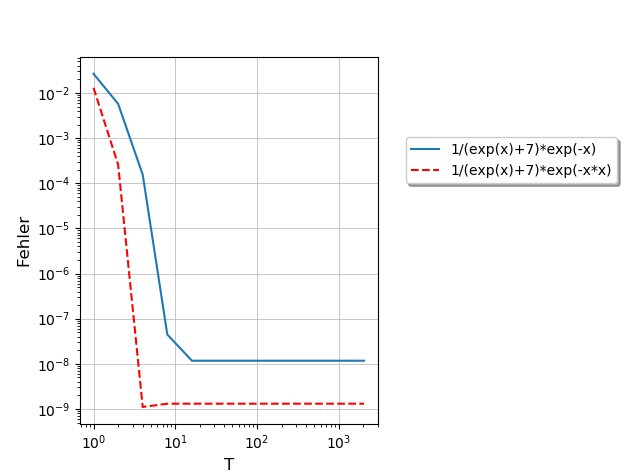
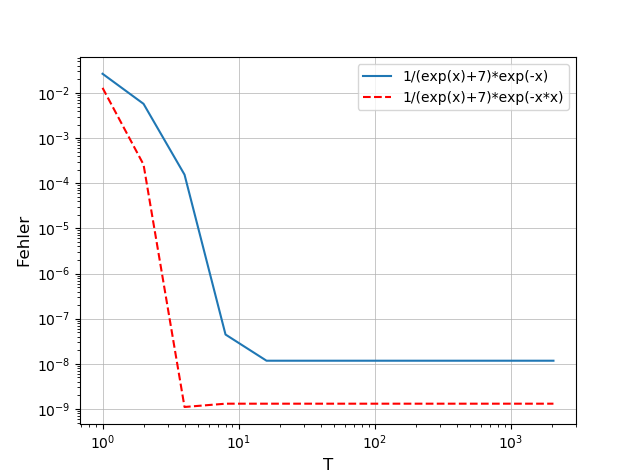
lol

diff --git a/latex/fehlerhvergleich.py b/latex/fehlerhvergleich.py
@@ -31,8 +31,9 @@ ax.loglog(T,errors2, 'r--', label = '1/(exp(x)+7)*exp(-x*x)')
 ax.grid(which='major', linewidth=0.5)
 ax.set_xlabel('T', size='large')
 ax.set_ylabel('Fehler', size='large')
-chartBox = ax.get_position()
-ax.set_position([chartBox.x0, chartBox.y0, chartBox.width*0.6, chartBox.height])
-ax.legend(loc='upper center', bbox_to_anchor=(1.45, 0.8), shadow=True, ncol=1)
+#chartBox = ax.get_position()
+#ax.set_position([chartBox.x0, chartBox.y0, chartBox.width*0.6, chartBox.height])
+#ax.legend(loc='upper center', bbox_to_anchor=(1.45, 0.8), shadow=True, ncol=1)
+ax.legend()
 plt.show()
 #plt.savefig('Fehlerploth.png', dpi=400)
